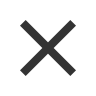
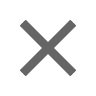
Added ability to click song to jump around queue Clear button now only visible on songs not currently playing Clear button is now lighter Assorted bug fixes

Changed region(s): [[0.1875, 0.1875, 0.8125, 0.8125]]

diff --git a/main.js b/main.js
@@ -67,6 +67,42 @@ $(document).on('click','.clear',function() {
     clear(this.id);
 });
 
+$(document).on('click', '.track',function(e) {
+    if(!$(e.target).is('.clear')){
+        var isCurrent = false;
+        realId = 0;
+        for(var i=0; i<queue.length; i++){
+            if(queue[i].trackId == this.id){
+                realId = i;
+                if(i == currentTrack){
+                    isCurrent = true;
+                    break;
+                }
+            }
+        }
+
+        if(!isCurrent){
+            $("#" + queue[currentTrack].trackId).addClass("inactive");
+            if(currentSound){
+                currentSound.pause();
+                currentSound.seek(0);
+            }
+            currentTrack = realId;
+            $("#" + queue[currentTrack].trackId).toggleClass("inactive");
+            document.getElementById("time").innerHTML = " ";
+            firstPlay = true;
+            play();
+        }
+
+        else if(isCurrent && firstPlay){
+            play();
+        }
+        else if(isCurrent){
+            currentSound.play();
+        }
+    }
+});
+
 function addTrack() {
     return $.ajax({
         url: "http://api.soundcloud.com/resolve.json?url=" +
@@ -79,8 +115,8 @@ function addTrack() {
     }).then(function(response){
         response.trackId = trackId;
         response.trackDuration = millisToMinutesAndSeconds(response.duration);
-        if(response.title.length > 18){
-            response.title = response.title.substring(0, 18) + "...";
+        if(response.title.length > 32){
+            response.title = response.title.substring(0, 32) + "...";
         }
         $( "#queue" ).append(trackTemplate(response));
         queue.push(response);
@@ -98,29 +134,30 @@ function playPause() {
     }
 }
 
-
 function next(cont) {
-    document.getElementById("time").innerHTML = " ";
-    if(queue.length > 0){
-        $("#" + queue[currentTrack].trackId).toggleClass("inactive");
-    }
+    $("#" + queue[currentTrack].trackId).addClass("inactive");
     if(currentSound){
         currentSound.pause();
         currentSound.seek(0);
     }
+    document.getElementById("time").innerHTML = " ";
     $( "#playpause" ).css({backgroundImage: "url(play.png)"});
     firstPlay = true;
-    currentTrack++;
+    if(currentSound ==  queue.length - 1){
+        currentTrack = 0;
+        $("#" + queue[currentTrack].trackId).removeClass("inactive");
+    }
+    else{
+        currentTrack++;
+    }
     if(cont){
         play();
     }
 }
 
 function prev(cont) {
+    $("#" + queue[currentTrack].trackId).addClass("inactive");
     document.getElementById("time").innerHTML = " ";
-    if(queue.length > 0){
-        $("#" + queue[currentTrack].trackId).toggleClass("inactive");
-    }
     if(currentSound){
         currentSound.pause();
         currentSound.seek(0);
@@ -135,9 +172,9 @@ function prev(cont) {
 
 function play() {
     if(currentTrack < queue.length && currentTrack >= 0 && queue.length != 0){
+        $("#" + queue[currentTrack].trackId).removeClass("inactive");
         $( "#playpause" ).css({backgroundImage: "url(pause.png)"});
         var trackUrl = "/tracks/" + queue[currentTrack].id;
-        $("#" + queue[currentTrack].trackId).removeClass("inactive");
         SC.stream(trackUrl).then(function(player){
                 playState = true;
                 currentSound = player;
@@ -182,14 +219,12 @@ function clear(track) {
     for(var i=0; i<queue.length; i++){
         if(queue[i].trackId == toClear){
                 queue.splice(i,1);
-                document.getElementById("time").innerHTML = " ";
                 if(i == currentTrack){
-                    if(playState){
-                        next(true);
-                    }
-                    else {
-                        next(false);
-                    }
+                    document.getElementById("time").innerHTML = " ";
+                    next(false);
+                }
+                else if(i < currentTrack){
+                    currentTrack--;
                 }
                 break;
         }

diff --git a/style.css b/style.css
@@ -78,8 +78,47 @@ input[type="text"], input[type="password"], textarea, select {
 #content {
     padding-top: 85px;
     padding-left: 20vw;
-    padding-right: 22.5vw;
+    padding-right: 28vw;
     padding-bottom: 200px;
+}
+
+@media(max-width: 1250px) {
+    #content {
+        padding-left: 15vw;
+        padding-right: 20vw;
+    }
+}
+
+@media(max-width: 980px) {
+    #content {
+        padding-left: 10vw;
+        padding-right: 15vw;
+    }
+}
+
+@media(max-width: 830px) {
+    #content {
+        padding-left: 5vw;
+        padding-right: 10vw;
+    }
+}
+
+@media(max-width: 715px) {
+    #content {
+        padding-left: 0vw;
+        padding-right: 5vw;
+    }
+}
+
+@media(max-width: 640px) {
+    #content {
+        padding-left: 0vw;
+        padding-right: 0vw;
+    }
+
+    ul {
+        -webkit-padding-start: 0px;
+    }
 }
 
 #queue {
@@ -87,22 +126,39 @@ input[type="text"], input[type="password"], textarea, select {
 }
 
 .track {
-    margin-top: 35px;
+    margin-top: 25px;
     background-color: white;
-    height: 150px;
-    border-radius: 5px;
+    height: 100px;
+    border-radius: 2px;
     box-shadow: 0px 1px 10px 0px #b0b0b0;
     background-repeat: no-repeat;
-    background-size: 150px;
+    background-size: 100px;
+    cursor: pointer;
 }
 
 .inactive > .trackinfo {
     color: #7f7f7f;
 }
 
+.inactive > .clear {
+    display: inline-block;
+}
+
+.clear {
+    background-image: url("clear.png");
+    background-size: 20px;
+    display: none;
+    height: 20px;
+    width: 20px;
+    float: right;
+    margin-right: 10px;
+    margin-top: 10px;
+    cursor: pointer;
+}
+
 .trackinfo {
     padding-top: 18px;
-    padding-left: 200px;
+    padding-left: 150px;
     color: black;
 }
 
@@ -114,15 +170,21 @@ input[type="text"], input[type="password"], textarea, select {
     display: inline-block;
 }
 
+.trackinfo > h1 {
+    font-size: 20px;
+}
+
 .trackinfo > h2 {
     margin-top: -15px;
     font-weight: lighter;
+    font-size: 16px;
 }
 
 .trackinfo > h3 {
     float: right;
     margin-right: 3vw;
     color: #7f7f7f;
+    font-size: 14px;
 }
 
 #controls {
@@ -178,15 +240,4 @@ input[type="text"], input[type="password"], textarea, select {
   background-repeat: no-repeat;
   vertical-align: top;
   cursor: pointer;
-}
-
-.clear {
-    background-image: url("clear.png");
-    background-size: 20px;
-    height: 20px;
-    width: 20px;
-    float: right;
-    margin-right: 10px;
-    margin-top: -7.5px;
-    cursor: pointer;
 }

diff --git a/index.html b/index.html
@@ -10,8 +10,8 @@
   <body>
   <script type="text/x-handlebars" id="track-template">
       <li id="{{trackId}}" class="track inactive" style="background-image: url({{artwork_url}})">
+          <div id="clear{{trackId}}" class="clear"></div>
           <div class="trackinfo">
-              <div id="clear{{trackId}}" class="clear"></div>
               <h1>{{title}}</h1><h3>{{trackDuration}}</h3>
               <h2>{{user.username}}</h2>
           </div>
